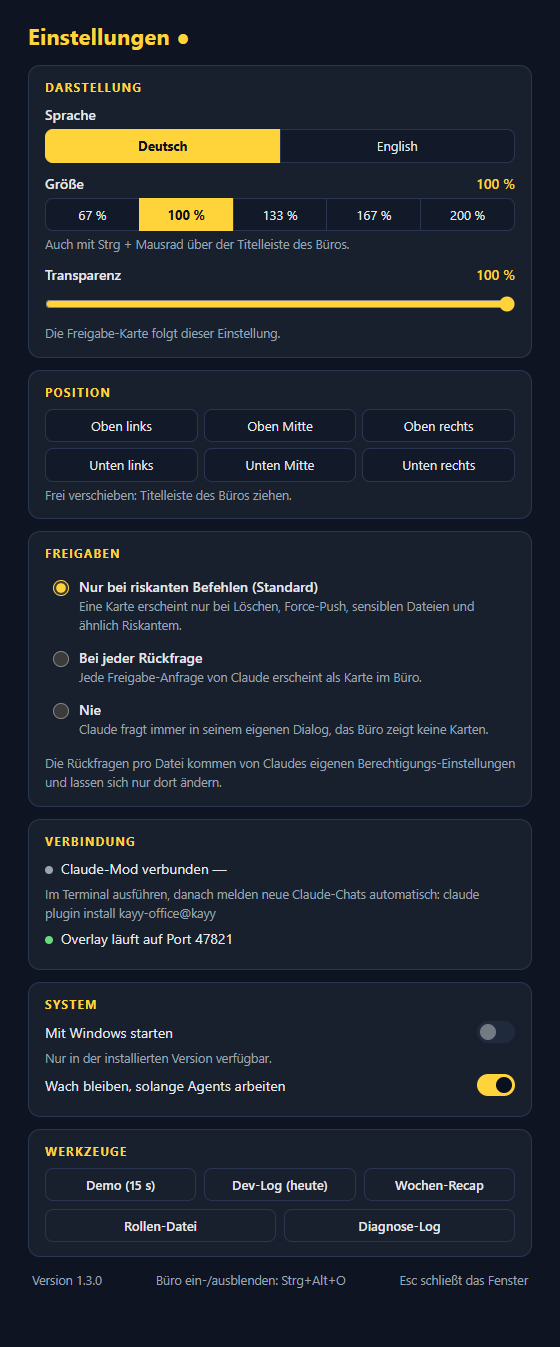
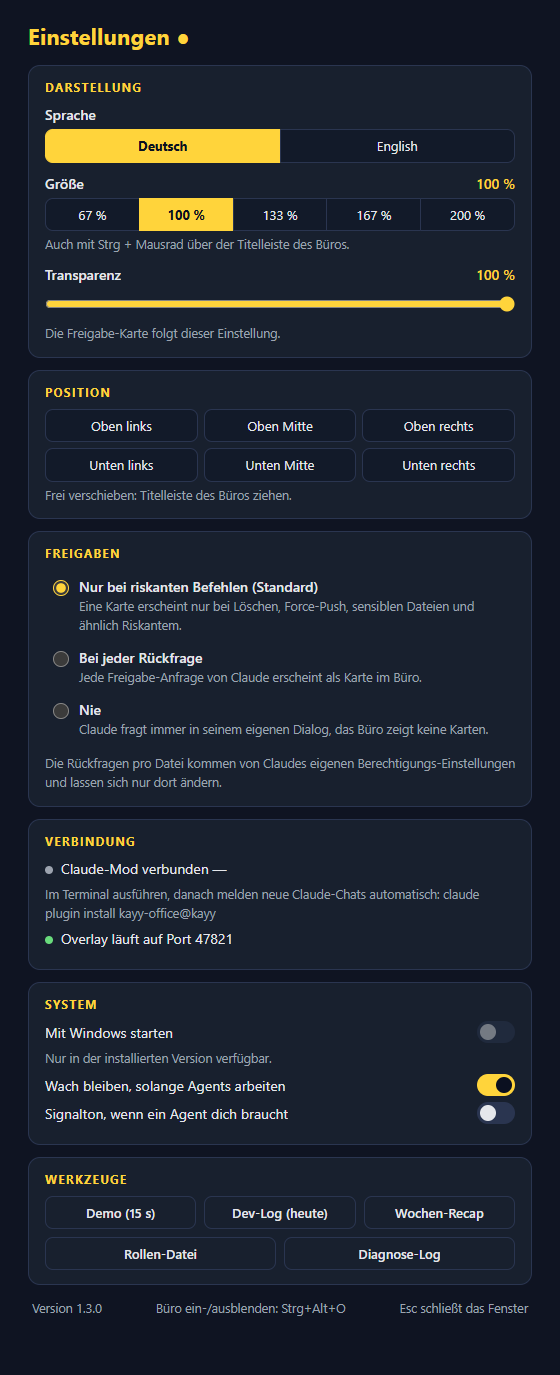
Version 1.3.1, settings screenshot with the sound option, README/CHANGELOG

diff --git a/README.md b/README.md
@@ -155,7 +155,7 @@ Tray-Menü: Anzeigen/Verstecken, **Einstellungen…**, Demo zeigen, Beenden. All
 | **Position** | sechs Plätze im Raster |
 | **Freigaben** | riskant / alle / nie |
 | **Verbindung** | Mod verbunden ✓/—, Installationsbefehl, Port |
-| **System** | Mit Windows starten, Wach bleiben |
+| **System** | Mit Windows starten, Wach bleiben, Signalton wenn ein Agent dich braucht (Standard aus) |
 | **Werkzeuge** | Demo, Dev-Log, Wochen-Recap, Rollen-Datei, Diagnose-Log |
 
 Gespeichert in `%APPDATA%\KayyOffice\config.json`.

diff --git a/CHANGELOG.md b/CHANGELOG.md
@@ -6,6 +6,8 @@
 - **Orchestrierungs-Richtlinie** delegiert nach festen Auslösern statt „wenn es sich lohnt“.
 - Autopilot: `git commit` und `grep -r` warten immer auf die Person.
 - README neu gestaltet (Banner, Screenshots, Diagramm).
+- Neu, optional (Standard aus): **Signalton**, wenn ein Agent auf dich wartet (Einstellungen → System).
+- Subagent-Schilder zeigen den Typ (`reviewer`, `coder` …); `npm run setup` und CI für Windows, Linux und macOS.
 
 ## 1.3.0 – 2026-10-31
 Nur noch der Claude-Mod.
